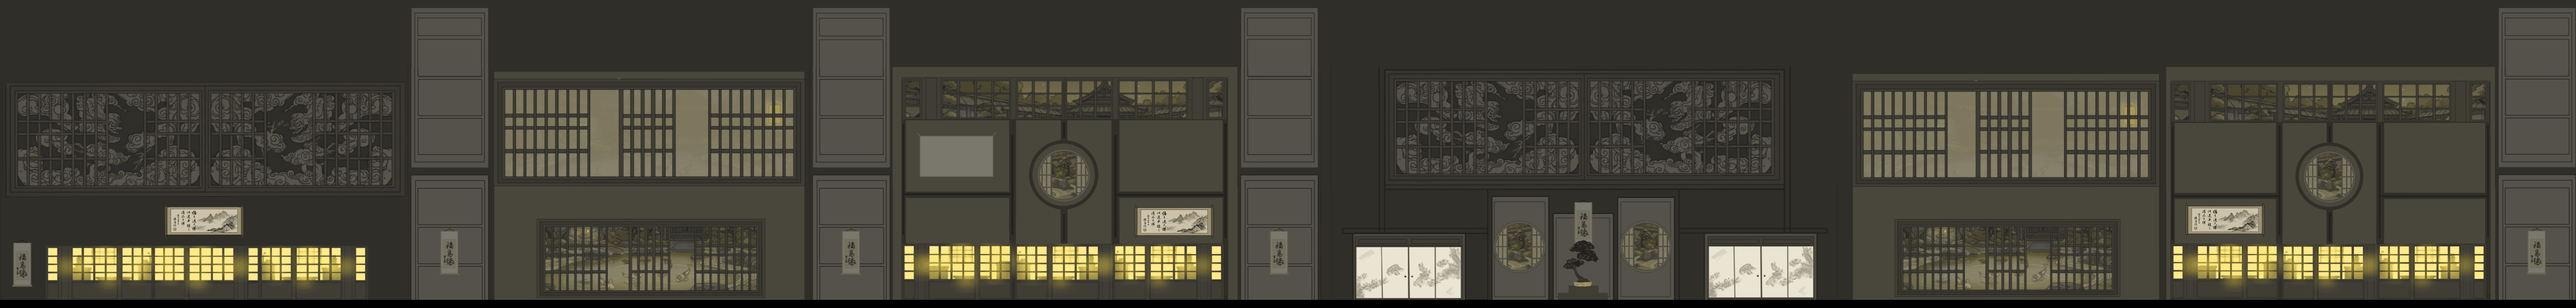
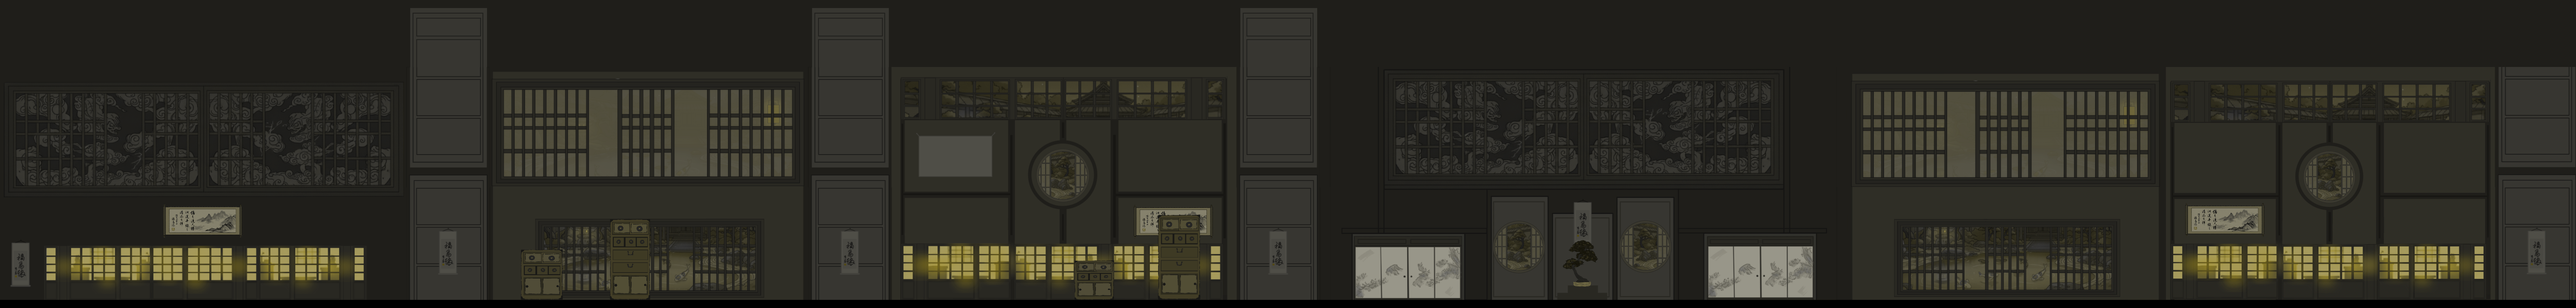
piattaforme spettrali casa e tutorial

diff --git a/hitomi_game/src/scenes/ghostly_house_scene.js b/hitomi_game/src/scenes/ghostly_house_scene.js
@@ -44,56 +44,55 @@ function create_ghostly_house(scene, data) {
   const platformPositions = [
 
     //======TUTORIAL======
-    { x: 820, y: 675, w: 150, h: 40, sprite_name: "piattaforma" },  // piattaforma iniziale
-    { x: 610, y: 600, w: 150, h: 40, sprite_name: "piattaforma" },  // piattaforma iniziale
-    { x: 1030, y: 773, w: 110, h: 90, sprite_name: "rialzino" }, // muretto
-    { x: 378, y: 470, w: 40, h: 395, sprite_name: "palo" },  // colonna di sinistra
-    { x: 400, y: 550, w: 150, h: 20, sprite_name: "basetta_1" }, // base del nemico
-    { x: 205, y: 640, w: 150, h: 20, sprite_name: "basetta_2" }, // base sopra culla
+    { x: 820, y: 675, w: 150, h: 40, sprite_name: "g_piattaforma" },  // piattaforma iniziale
+    { x: 610, y: 600, w: 150, h: 40, sprite_name: "g_piattaforma" },  // piattaforma iniziale
+    { x: 1030, y: 773, w: 110, h: 90, sprite_name: "g_rialzino" }, // muretto
+    { x: 378, y: 470, w: 40, h: 395, sprite_name: "g_palo" },  // colonna di sinistra
+    { x: 400, y: 550, w: 150, h: 20, sprite_name: "g_basetta_1" }, // base del nemico
+    { x: 205, y: 640, w: 150, h: 20, sprite_name: "g_basetta_2" }, // base sopra culla
     // /DA FLIPPARE
     { x: 100, y: 805, w: 100, h: 60, sprite_name: "culla" },   // culla del bimbo
 
     //=======CASA======
-    { x: 2270, y: 737, w: 87, h: 130, sprite_name: "vaso" },
+    { x: 2270, y: 737, w: 87, h: 130, sprite_name: "g_vaso" },
 
     //=======PIATTAFORME PER LA PRIMA CHIAVE=========
-    { x: 1590, y: 700, w: 150, h: 42, sprite_name: "cuscino" },
-    { x: 1865, y: 610, w: 150, h: 42, sprite_name: "cuscino" },
-    { x: 2065, y: 520, w: 150, h: 42, sprite_name: "piattaforma" }, // DA METTERE SOLO NEL MONDO SPETTRALE
-    { x: 2490, y: 435, w: 150, h: 42, sprite_name: "piattaforma" },
-    { x: 2840, y: -169, w: 100, h: 900, sprite_name: "piattaforma" }, //MURO CON PORTA SOTTO
+    { x: 1590, y: 700, w: 150, h: 42, sprite_name: "g_cuscino" },
+    { x: 1865, y: 610, w: 150, h: 42, sprite_name: "g_cuscino" },
+    { x: 2065, y: 520, w: 150, h: 42, sprite_name: "g_piattaforma" }, // DA METTERE SOLO NEL MONDO SPETTRALE
+    { x: 2490, y: 435, w: 150, h: 42, sprite_name: "g_piattaforma" },
+    { x: 2840, y: -169, w: 100, h: 900, sprite_name: "g_piattaforma" }, //MURO CON PORTA SOTTO
 
     //=======PIATTAFORME PER LA SECONDA CHIAVE=========
-    { x: 3240, y: 740, w: 150, h: 42, sprite_name: "cuscino" },
-    { x: 3490, y: 600, w: 150, h: 42, sprite_name: "cuscino" },
-    { x: 3490, y: 300, w: 150, h: 42, sprite_name: "piattaforma" },
-    { x: 4180, y: 450, w: 150, h: 42, sprite_name: "piattaforma" },// standard
+    { x: 3240, y: 740, w: 150, h: 42, sprite_name: "g_cuscino" },
+    { x: 3490, y: 600, w: 150, h: 42, sprite_name: "g_cuscino" },
+    { x: 3490, y: 300, w: 150, h: 42, sprite_name: "g_piattaforma" },
+    { x: 4180, y: 450, w: 150, h: 42, sprite_name: "g_piattaforma" },// standard
 
-    { x: 4430, y: 300, w: 150, h: 42, sprite_name: "piattaforma" },// standard                RIMANE
-    { x: 4430, y: 300, w: 150, h: 42, sprite_name: "piattaforma" }, // penultima piattaforma  RIMANE
-//    { x: 5200, y: 425, w: 100, h: 300, sprite_name: "piattaforma" },  // Terzo muro
-    { x: 4180, y: 737, w: 87, h: 130, sprite_name: "vaso" },
-    { x: 4920, y: 737, w: 87, h: 130, sprite_name: "vaso" },
+    { x: 4430, y: 300, w: 150, h: 42, sprite_name: "g_piattaforma" },// standard                RIMANE
+    { x: 4430, y: 300, w: 150, h: 42, sprite_name: "g_piattaforma" }, // penultima piattaforma  RIMANE
+//    { x: 5200, y: 425, w: 100, h: 300, sprite_name: "g_piattaforma" },  // Terzo muro
+    { x: 4180, y: 737, w: 87, h: 130, sprite_name: "g_vaso" },
+    { x: 4920, y: 737, w: 87, h: 130, sprite_name: "g_vaso" },
 
     // === ARZIGOGOLO COSTRUITO ADDOSSO ALLA PARETE (VEDI MARCELLO) ===
-    { x: 5860, y: 774, w: 150, h: 93, sprite_name: "rialzino" }, //Non ho capito che sprite andrebbe messo, chiedere a Marcello (SOLO MONDO REALE)
-    { x: 5480, y: 425, w: 500, h: 41, sprite_name: "trave" }, //Piattaforma larga attaccata al muro
-    { x: 5710, y: 325, w: 42, h: 99, sprite_name: "paletto" }, //Parete verticale del coso
-    { x: 5708, y: 285, w: 150, h: 42, sprite_name: "paletto_1" }, // Parete orizzontale alla fine di quella verticale
-//    { x: 5908, y: 437, w: 150, h: 42, sprite_name: "piattaforma" }, // Piattaforma per salire sull'accrocchio (SOLO MONDO SPETTRALE)
-    // { x: 6058, y: 155, w: 150, h: 42, sprite_name: "piattaforma" }, // Piattaforma orizzontale a angolo retto dopo l'accrocchio
-{ x: 6058, y: 612, w: 150, h: 42, sprite_name: "piattaforma" }, //Piattaforma per salire sull'accrocchio
-
+    { x: 5860, y: 774, w: 150, h: 93, sprite_name: "g_rialzino" }, //Non ho capito che sprite andrebbe messo, chiedere a Marcello (SOLO MONDO REALE)
+    { x: 5480, y: 425, w: 500, h: 41, sprite_name: "g_trave" }, //Piattaforma larga attaccata al muro
+    { x: 5710, y: 325, w: 42, h: 99, sprite_name: "g_paletto" }, //Parete verticale del coso
+    { x: 5708, y: 285, w: 150, h: 42, sprite_name: "g_paletto_1" }, // Parete orizzontale alla fine di quella verticale
+//    { x: 5908, y: 437, w: 150, h: 42, sprite_name: "g_piattaforma" }, // Piattaforma per salire sull'accrocchio (SOLO MONDO SPETTRALE)
+    // { x: 6058, y: 155, w: 150, h: 42, sprite_name: "g_piattaforma" }, // Piattaforma orizzontale a angolo retto dopo l'accrocchio
+{ x: 6058, y: 612, w: 150, h: 42, sprite_name: "g_piattaforma" }, //Piattaforma per salire sull'accrocchio
     //=== PIATTAFORME GROSSE PER LA FINE DEL LIVELLO ===
-    { x: 6400, y: 340, w: 150, h: 42, sprite_name: "piattaforma" },
-    // { x: 6700, y: 220, w: 250, h: 42, sprite_name: "piattaforma" },
-    { x: 7100, y: 340, w: 150, h: 42, sprite_name: "piattaforma" },
+    { x: 6400, y: 340, w: 150, h: 42, sprite_name: "g_piattaforma" },
+    // { x: 6700, y: 220, w: 250, h: 42, sprite_name: "g_piattaforma" },
+    { x: 7100, y: 340, w: 150, h: 42, sprite_name: "g_piattaforma" },
 
     // === VASI SOTTO ALLE PIATTAFORME GRANDI PER FERMARE I NEMICI ===
-    { x: 6380, y: 737, w: 87, h: 130, sprite_name: "vaso" },
-    { x: 7120, y: 737, w: 87, h: 130, sprite_name: "vaso" },
+    { x: 6380, y: 737, w: 87, h: 130, sprite_name: "g_vaso" },
+    { x: 7120, y: 737, w: 87, h: 130, sprite_name: "g_vaso" },
 
-    { x: 7645, y: -171, w: 100, h: 900, sprite_name: "piattaforma" } //ULTIMO MURO CON PORTA SOTTO
+    { x: 7645, y: -171, w: 100, h: 900, sprite_name: "g_piattaforma" } //ULTIMO MURO CON PORTA SOTTO
   ];
 
   // === PIATTAFORME NEL MONDO SPETTRALE ===

diff --git a/hitomi_game/src/scene_objects/platform.js b/hitomi_game/src/scene_objects/platform.js
@@ -21,6 +21,20 @@ PP.scene_objects.platform.preload = function(scene) {
     PP.scene_objects.platform.sprite["cuscino"] = PP.assets.image.load(scene, "assets/images/house/cuscino.png", 200, 100);
 
 
+    // Piattaforme spettrali tutorial e casa
+    PP.scene_objects.platform.sprite["g_vaso"] = PP.assets.image.load(scene, "assets/images/house/g_vaso.png");
+    PP.scene_objects.platform.sprite["g_piattaforma"] = PP.assets.image.load(scene, "assets/images/house/g_piattaforma.png");
+    PP.scene_objects.platform.sprite["g_rialzino"] = PP.assets.image.load(scene, "assets/images/house/g_armadio3.png");
+    PP.scene_objects.platform.sprite["g_trave"] = PP.assets.image.load(scene, "assets/images/house/g_trave.png");
+    PP.scene_objects.platform.sprite["g_paletto"] = PP.assets.image.load(scene, "assets/images/house/g_paletto.png");
+    PP.scene_objects.platform.sprite["g_paletto_1"] = PP.assets.image.load(scene, "assets/images/house/g_paletto_1.png");
+    PP.scene_objects.platform.sprite["g_muro_grande"] = PP.assets.image.load(scene, "assets/images/house/g_muro_grande.png", 100, 620);
+    PP.scene_objects.platform.sprite["g_basetta_1"] = PP.assets.image.load(scene, "assets/images/house/g_basetta_1.png", 150, 20);
+    PP.scene_objects.platform.sprite["g_basetta_2"] = PP.assets.image.load(scene, "assets/images/house/g_basetta_2.png", 150, 20);
+    PP.scene_objects.platform.sprite["g_palo"] = PP.assets.image.load(scene, "assets/images/house/g_palo.png", 50, 270);
+    PP.scene_objects.platform.sprite["g_cuscino"] = PP.assets.image.load(scene, "assets/images/house/g_cuscino.png", 200, 100);
+
+
     // Piattaforme foresta
     PP.scene_objects.platform.sprite["tronco"] = PP.assets.image.load(scene, "assets/images/forest/parallasse/tronco.png", 300, 350);
     PP.scene_objects.platform.sprite["piattaforma_foresta"] = PP.assets.image.load(scene, "assets/images/forest/parallasse/piattaforma_erbetta.png");

diff --git a/hitomi_game/src/scenes/ghostly_tutorial_scene.js b/hitomi_game/src/scenes/ghostly_tutorial_scene.js
@@ -29,12 +29,12 @@ function create_ghostly_tutorial_scene(scene) {
 
     // === PIATTAFORME ===
     const platformPositions = [
-        { x: 1270, y: 675, w: 150, h: 40, sprite_name: "piattaforma" },  // piattaforma iniziale
-        { x: 1030, y: 600, w: 150, h: 40, sprite_name: "piattaforma" },  // piattaforma 
-        { x: 1480, y: 773, w: 110, h: 90, sprite_name: "rialzino" }, // muretto
-        { x: 828, y: 470, w: 40, h: 395, sprite_name: "palo" },  // palo
-        { x: 850, y: 550, w: 150, h: 20, sprite_name: "basetta_1" }, // base del nemico
-        { x: 655, y: 640, w: 150, h: 20, sprite_name: "basetta_2" }, // base sopra culla
+        { x: 1270, y: 675, w: 150, h: 40, sprite_name: "g_piattaforma" },  // piattaforma iniziale
+        { x: 1030, y: 600, w: 150, h: 40, sprite_name: "g_piattaforma" },  // piattaforma 
+        { x: 1480, y: 773, w: 110, h: 90, sprite_name: "g_rialzino" }, // muretto
+        { x: 828, y: 470, w: 40, h: 395, sprite_name: "g_palo" },  // palo
+        { x: 850, y: 550, w: 150, h: 20, sprite_name: "g_basetta_1" }, // base del nemico
+        { x: 655, y: 640, w: 150, h: 20, sprite_name: "g_basetta_2" }, // base sopra culla
         { x: 150, y: 805, w: 100, h: 60, sprite_name: "culla" }   // culla del bimbo
     ];
 
